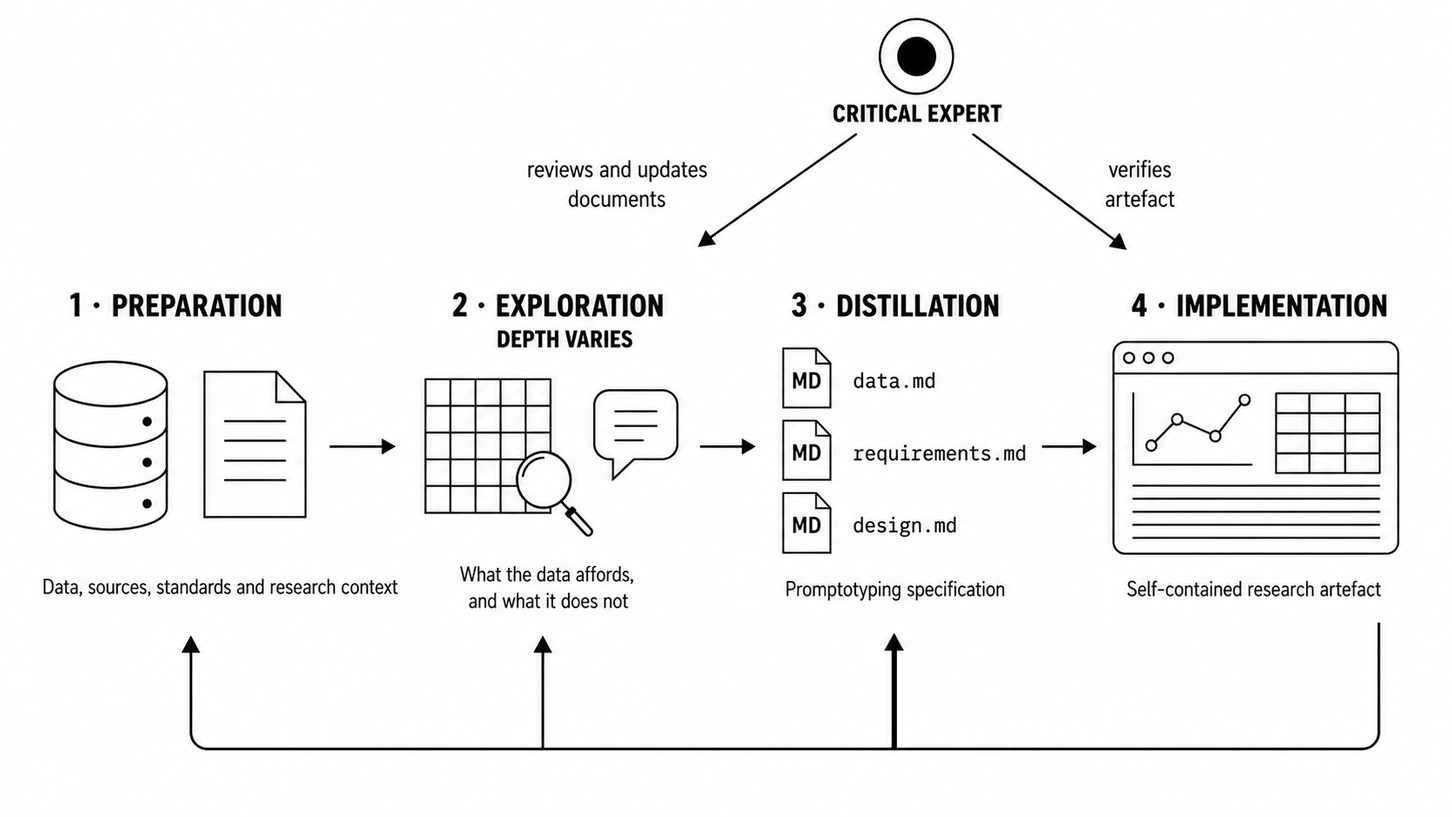
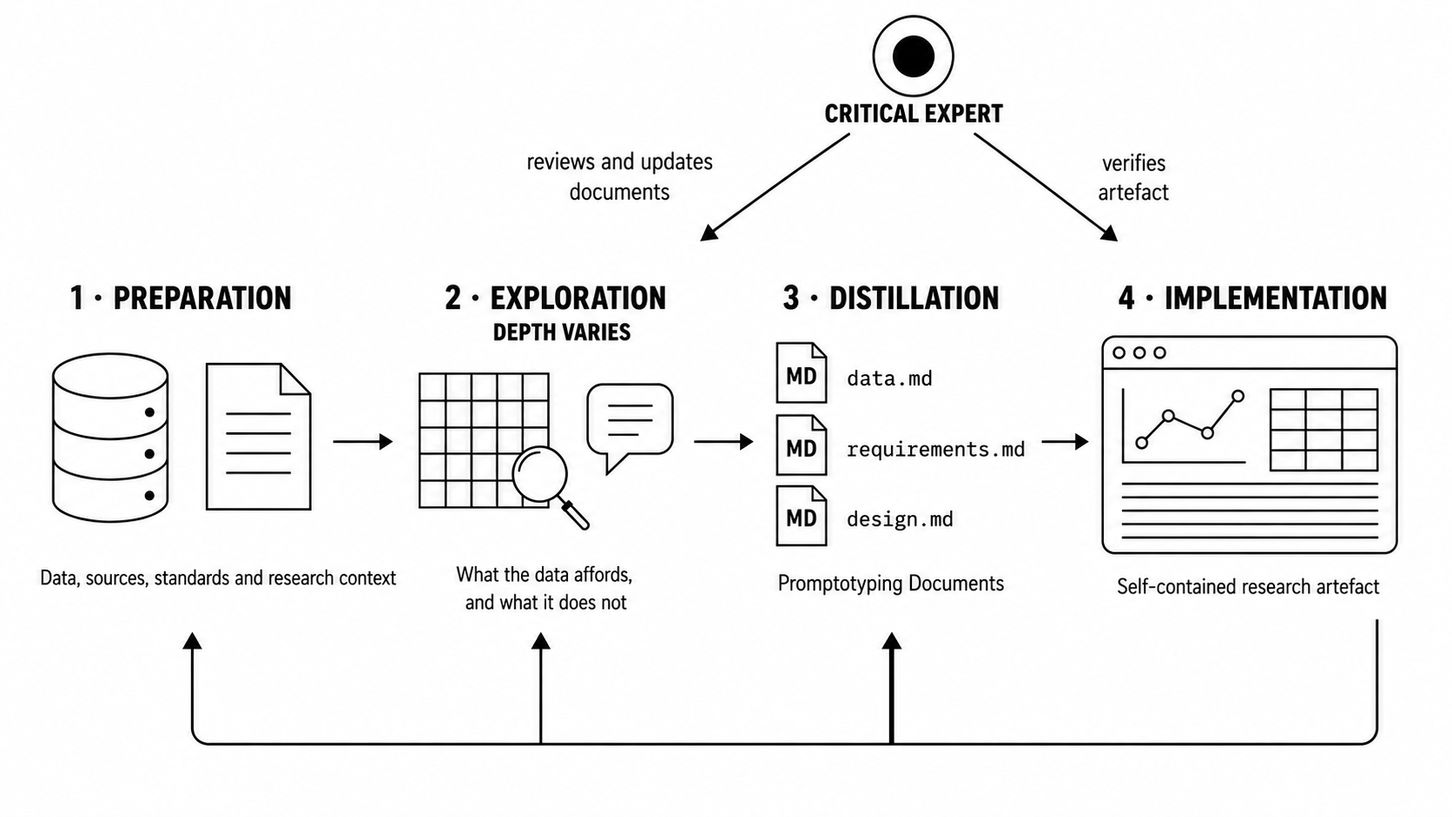
Close the figure work: corrected figure 1, provenance, journal, text fixes
Figure 1 re-rendered with the Promptotyping Documents caption and the depth
note on Exploration. The generation prompts move next to the images in
assets/figures/PROVENANCE.md rather than into the vault, since a prompt
asserts nothing and cannot be grounded. In the paper, Exploration is no longer
declared optional, two duration formulas are anchored to fixed points, and the
translation problem is traced to requirements engineering. The fill-in
examples in the templates now show the documented Harness (LLM) format.

diff --git a/knowledge/paper.md b/knowledge/paper.md
@@ -20,7 +20,7 @@ To ask such questions through a generic tool, the scholar must first reduce the 
 
 Data in the humanities is interpretatively modelled and operationalised, made by people for people, and no generative system replaces this foundation. The method presented here presupposes it, because well-modelled data is precisely what its context layer curates (Section 2.2).
 
-Behind the capacity problem lies a translation problem of another kind, between domain scholars and programmers, to which the field has given several answers. Edmond (2005) described the professional intermediary who mediates between scholarly requirements and technical implementation. Siemens (2009) analysed the team structures that digital humanities projects build to hold both competences together. Kemman (2021) reconstructed digital-history collaborations as trading zones, taking from Galison the concept of an arena in which two communities with different practices coordinate a joint enterprise locally without agreeing globally, and identified the brokers who translate between them. The Research Software Engineering movement has institutionalised the intermediary as a recognised profession (Baxter et al. 2012; Cohen et al. 2021). Each of these answers installs a human translator, and each ties that translator to an institution or a project budget able to pay for the role. Where the role is institutionalised, the capacity it provides falls short of demand. Surveying research software practice across 1,149 respondents, Carver et al. (2022) report that the research-software-engineering, financial, and infrastructure support institutions do provide is inadequate to their respondents' needs, and that funding for software development activities is overwhelmingly reported as insufficient. Building a research artefact that matches a model requires development capacity, and that is what individual researchers and small projects do not command. Since that shortfall was measured among researchers with institutional attachment, I infer that the answers reach the long tail beyond them still less reliably.
+Behind the capacity problem lies a translation problem of another kind, between domain scholars and programmers, to which the field has given several answers. Edmond (2005) described the professional intermediary who mediates between scholarly requirements and technical implementation. Siemens (2009) analysed the team structures that digital humanities projects build to hold both competences together. Kemman (2021) reconstructed digital-history collaborations as trading zones, taking from Galison the concept of an arena in which two communities with different practices coordinate a joint enterprise locally without agreeing globally, and identified the brokers who translate between them. The Research Software Engineering movement has institutionalised the intermediary as a recognised profession (Baxter et al. 2012; Cohen et al. 2021). The figure these answers respond to is older than its reception in this field, since requirements engineering has treated the distance between domain experts and developers as a constitutive problem of software specification since the discipline formed. Each of these answers installs a human translator, and each ties that translator to an institution or a project budget able to pay for the role. Where the role is institutionalised, the capacity it provides falls short of demand. Surveying research software practice across 1,149 respondents, Carver et al. (2022) report that the research-software-engineering, financial, and infrastructure support institutions do provide is inadequate to their respondents' needs, and that funding for software development activities is overwhelmingly reported as insufficient. Building a research artefact that matches a model requires development capacity, and that is what individual researchers and small projects do not command. Since that shortfall was measured among researchers with institutional attachment, I infer that the answers reach the long tail beyond them still less reliably.
 
 This paper introduces Promptotyping, an iterative, document-driven context engineering method situated within agentic engineering. With the method, individual researchers and small teams can translate their own structured research data into research artefacts. A research artefact in this sense is what the documents are turned into for a project's research context, software bound to the data of that project and working on its own data, through which those data become explorable, analysable, or editable. Producing one is a research act that previously required structures with dedicated development capacity. This translation runs through the documents, from the data to their description to the artefact, and it is a different operation from the mediation between scholar and programmer that the preceding paragraph describes. The documents carry both, and Section 3.3 sets out how. The same derivation yields the forms that stand beside it in the record, the processing pipeline upstream of an artefact and the description rendered from the source data. Section 4 fixes the form and its limits.
 
@@ -95,7 +95,7 @@ The second dimension is the token economy of the working context. Here the order
 
 Promptotyping resolves this tension with a simple arrangement. The LLM reads about the data and writes code that reads the data. The semantically rich source data remains the source of truth. What enters the LLM's context is a distilled, token-efficient description of it, produced in the Distillation phase (Section 3.2), in larger projects partly by deterministic scripts that traverse the full corpus and render compact structural descriptions (Section 3.3). And the artefact itself is produced by generated code, parsers, transformations, and rendering logic that process the data deterministically and repeatably. The full data never passes through the context window. What passes through are the data description, the user stories, the design decisions, and the feedback. Where the documents that carry this description sit on the spectrum of explicitness, and why native processability does not lift the token budget, Section 3.3 works out.
 
-This arrangement continues a research programme the humanities have invested in for two decades. The Semantic Web's founding vision was agents operating over semantically described data (Berners-Lee, Hendler, and Lassila 2001); it presupposed the formal inference of its time and did not materialise on that path, and Berners-Lee, in his retrospective on the web, reads the current agentic systems as a movement towards the agent idea that vision named, a movement he describes as partial (Berners-Lee 2025). The arrangement described here rests on no formal inference; explicit semantics enter it as context that the description draws on.[^kg] The explication work, once done, outlasts the format that first carried it, and Section 7 draws the consequence.
+This arrangement continues a research programme the humanities have pursued since the turn of the millennium. The Semantic Web's founding vision was agents operating over semantically described data (Berners-Lee, Hendler, and Lassila 2001); it presupposed the formal inference of its time and did not materialise on that path, and Berners-Lee, in his retrospective on the web, reads the current agentic systems as a movement towards the agent idea that vision named, a movement he describes as partial (Berners-Lee 2025). The arrangement described here rests on no formal inference; explicit semantics enter it as context that the description draws on.[^kg] The explication work, once done, outlasts the format that first carried it, and Section 7 draws the consequence.
 
 ### 2.3 The Translation Problem, and Documents as Conceptual Models
 
@@ -413,7 +413,7 @@ One transfer path deserves naming because it requires no generative tooling at a
 
 ## 7. Conclusion
 
-Promptotyping is a methodological answer to a gap the digital humanities have documented for two decades, between scholars who model research data and the interactive artefacts through which that data could be explored. The method's claims are two. Versioned documents can carry the derivation of a research artefact from research data, concentrating scholarly work where scholarly responsibility lies, in modelling, specifying, and verifying. The same documents stabilise interdisciplinary translation in an inspectable form, towards coding agents and towards human developers alike. The artefacts are prototypes in the strict sense, bounded by the handover point at which Research Software Engineering begins. The epistemic centre of the practice is the modelled data. Where the field's twenty-year investment in standards, ontologies, and semantic modelling has been made, the method renders it productive, through a different mechanism than the Semantic Web envisioned but towards the end it named; where it has not been made, the method moves that work to the front of the process. This paper is the method's canonical definition; the evidence layer is published as a versioned companion with claim-level anchors, and the templates are public. The method was distilled from practice, and testing it further, in the humanities and beyond, remains open.
+Promptotyping is a methodological answer to a gap the digital humanities have documented since Edmond (2005), between scholars who model research data and the interactive artefacts through which that data could be explored. The method's claims are two. Versioned documents can carry the derivation of a research artefact from research data, concentrating scholarly work where scholarly responsibility lies, in modelling, specifying, and verifying. The same documents stabilise interdisciplinary translation in an inspectable form, towards coding agents and towards human developers alike. The artefacts are prototypes in the strict sense, bounded by the handover point at which Research Software Engineering begins. The epistemic centre of the practice is the modelled data. Where the field's sustained investment in standards, ontologies, and semantic modelling has been made, the method renders it productive, through a different mechanism than the Semantic Web envisioned but towards the end it named; where it has not been made, the method moves that work to the front of the process. This paper is the method's canonical definition; the evidence layer is published as a versioned companion with claim-level anchors, and the templates are public. The method was distilled from practice, and testing it further, in the humanities and beyond, remains open.
 
 ## Acknowledgements
 

diff --git a/assets/figures/PROVENANCE.md b/assets/figures/PROVENANCE.md
@@ -1,0 +1,146 @@
+# Figure provenance
+
+The two figures of `knowledge/paper.md` are generated images. This file states
+for each one what it shows, where it belongs in the paper, and the exact prompt
+it was generated from, so that a change of wording can be carried into the
+image without reconstructing the instruction. Section 4.1 of the paper requires
+every artefact to disclose its conditions of production, and the same
+obligation holds for the figures the paper carries.
+
+Both were produced with the ChatGPT image model on 2026-07-26. The style is
+fixed across both, flat monochrome line art on a white plate, near-black
+strokes, bold uppercase headings, monospace reserved for file names, and no
+title inside the image, because the caption in the paper carries it. The dark
+theme of the site inverts the plate in CSS rather than shipping a second file.
+
+One convention runs across the set. A solid filled shape means human
+judgement, and it is the only filled shape in either image.
+
+## figure-1-phases.png
+
+Belongs to Section 3.2, caption Figure 1. It shows the four phases from left to
+right with the material each works on, the Critical Expert above the third and
+fourth phase, and one return path that re-enters at three depths.
+
+```
+Flat vector line art on a pure white #ffffff background, filling the entire
+canvas. Strokes in near-black #1a1a1a, monochrome, no colour, no shadows,
+no title anywhere. Bold uppercase sans-serif for headings, regular sans-serif
+for captions, monospace for file names. 16:9.
+
+Top right area, centred horizontally between columns 3 and 4: a thin open
+circle containing a solid filled black disc, with the bold uppercase label
+"CRITICAL EXPERT" directly beneath it. This disc is the only filled shape in
+the image. Two thin arrows leave the label area and run diagonally downward,
+one to the left ending above column 3, one to the right ending above column 4,
+each with a solid arrowhead. Beside the left arrow, two lines of small regular
+text, "reviews and updates" over "documents". Beside the right arrow, two
+lines, "verifies" over "artefact".
+
+One row of four bold uppercase headings, evenly spaced left to right, each
+with a middle dot after the number:
+  1 · PREPARATION    2 · EXPLORATION    3 · DISTILLATION    4 · IMPLEMENTATION
+Directly under the second heading, in smaller bold uppercase: DEPTH VARIES
+
+One row of icons beneath the headings:
+ 1  a three-tier database cylinder with a small dot on each tier, beside a
+    document sheet with a folded top-right corner and four horizontal lines
+ 2  a square grid of about five by five cells, with a magnifying glass
+    overlapping its lower right corner, and to the right a speech bubble
+    containing three short horizontal lines
+ 3  three separate small square cards stacked vertically, each with a folded
+    top-right corner and the letters MD inside, each with its monospace label
+    set to the right on the same line, top to bottom:
+    data.md, requirements.md, design.md
+ 4  a browser window frame with three small circles in its title bar,
+    containing a line chart with plotted points on the left, a table grid on
+    the right, and a block of horizontal lines across the lower half
+
+Between the icons, three thin horizontal arrows with solid heads pointing
+right, set at the vertical middle of the icons.
+
+One row of centred captions beneath the icons:
+ 1  one line, "Data, sources, standards and research context"
+ 2  two lines, "What the data affords," over "and what it does not"
+ 3  one line, "Promptotyping Documents"
+ 4  one line, "Self-contained research artefact"
+
+Beneath everything, a single return path drawn as one continuous thin line
+with rounded corners. It drops from the right edge below column 4, runs
+horizontally leftward across the full width, and sends three short vertical
+risers upward, each ending in a solid arrowhead just beneath the captions of
+columns 1, 2 and 3. The riser into column 3 is drawn thicker than the other
+two. Above each riser, one small lowercase word at its arrowhead: "sources"
+above the riser into column 1, "assumptions" above the riser into column 2,
+"documents" above the riser into column 3.
+```
+
+Two deviations stand in the delivered image. The three words above the risers
+were not drawn, which is without consequence because the caption names the
+three depths. And the open ring for the agent, which would give the filled
+disc its counterpart and make the division of labour visible, was dropped from
+the instruction while the return path was being fixed; it is the one addition
+worth making on a future run.
+
+## figure-2-document-types.png
+
+Belongs to Section 3.3, caption Figure 2. It shows the three document types
+side by side, each headed by the question it answers and listing the files
+that carry it.
+
+```
+Flat vector line art on a pure white #ffffff background, filling the entire
+canvas. Strokes in near-black #1a1a1a, monochrome, no colour, no shadows,
+no title. 4:3.
+
+One thin outer rectangle divided into three equal columns by two thin vertical
+rules. NO horizontal rules anywhere. Nothing hangs below the rectangle.
+
+Each column carries four elements, stacked with generous spacing:
+ a bold uppercase heading, centred
+ one italic line in sentence case, centred
+ an icon, centred, occupying no more than one third of the column height
+ a monospace list, left-aligned, ONE ITEM PER LINE, with NO slashes, commas or
+ separators of any kind
+
+COLUMN 1
+ DECLARATIVE DOCUMENTS
+ What is the case
+ icon: a document sheet with a folded top-right corner bearing horizontal text
+ lines, with a magnifying glass resting over its lower right area
+ data.md
+ requirements.md
+ design.md
+ verification.md
+ editorial guidelines
+ mapping rules
+
+COLUMN 2
+ PROCESS DOCUMENTS
+ How the work went, and why
+ icon: a document sheet with a folded top-right corner bearing a clock face
+ above a small graph of three connected dots
+ journal.md
+ learnings.md
+ decisions.md
+
+COLUMN 3
+ ACTION DOCUMENTS
+ How to act
+ icon: a document sheet with a folded top-right corner bearing a gear above a
+ checklist of three ticked boxes, each box followed by a short horizontal rule
+ CLAUDE.md
+ AGENTS.md
+ testing strategy
+ agent roles
+
+All three document sheets are drawn at the same size and stroke weight, and
+all three italic lines are in sentence case.
+```
+
+An earlier version of this figure carried a fourth row per column giving the
+diagnostic use, which type to revise when a given kind of error appears in the
+output. It was dropped by operator decision, and the caption in the paper now
+points to the text for it. Restoring it is an addition without redesign, one
+line per column reading `FACTUALLY WRONG → revise`,
+`DECISION LOGIC UNCLEAR → consult` and `FORMALLY WRONG → adjust`.

diff --git a/knowledge/journal.md b/knowledge/journal.md
@@ -921,3 +921,27 @@ Fünf Durchgänge zu je drei Agenten mit disjunktem Dateibesitz, dazwischen Oper
 **Vault-Nachzug, gewachsen.** Konvention und Praxis sind repo-first englisch, dazu trägt die Konvention jetzt den Definitionsvorspann und die korrigierte Typologie. Zusammen mit dem Pflichtkern nach A2 und der Aufnahme der Technology-Vorlage nach B3 ist das eine Vault-Sitzung.
 
 **Offen.** Die sieben Fall-Tiefenseiten. Die neun Glossarbegriffe ohne Fundstelle ausserhalb des Glossars. `_content/glossar.md` ist ein generiertes Dokument ohne Generator im Repo, was die eigene Regel verletzt, dass generierte Dokumente von Skripten gerendert und nicht von Hand gepflegt werden. Die Doppelung der Subpath-Auflösung zwischen `404.html` und `resolveTemplateUrl`, die aus dem Stub folgt und sich beseitigen liesse, wenn der Stub den rohen Pfad weiterreicht. Der Glossareintrag zu den User Stories nennt acht Prüfkriterien und zählt sieben.
+
+## 2026-07-26, sechste Runde — Die Abbildungen des Papers, und was ihr Zeichnen am Text aufgedeckt hat
+
+Diese Runde begann als Bildarbeit und endete als Textarbeit. Der Ertrag im Paper ist grösser als der auf dem Papier, weil eine Abbildung eine Unterscheidung erzwingt, die Prosa offen lassen kann.
+
+**Fünf unscharfe Stellen sind beim Zeichnen aufgefallen.** Die Unterscheidung zwischen kuratierten und generierten Dokumenten stand als Eigenschaft des deklarativen Typs; sie läuft unabhängig von allen drei Typen und ist eine Eigenschaft der Provenienz, entschieden durch die Frage, ob der nächste Lauf eines benannten Kommandos die Datei überschreibt. Die Beschreibung einer Projektpipeline gehört zu den deklarativen Dokumenten und nicht zu den Prozessdokumenten. Der Adressat wechselt mit dem Dokumenttyp, während die doppelte Lesbarkeit über den ganzen Satz konstant bleibt. In 6.2 lagen Rangordnung und Prüfebene ineinander. Und der Rang der maschinellen Prüfinstanz war gesetzt statt begründet.
+
+**Aus dem adversarial machine review wurde ein LLM Review.** Der Operator hat die martialische Formulierung beanstandet und den Anschluss an LLM-as-a-Judge vorgeschlagen. Beides ist eingelöst, mit Zheng et al. 2023 im Verzeichnis, und die dort dokumentierten Verzerrungen tragen jetzt die Begründung dafür, warum die Instanz unter der menschlichen Verifikation rangiert. Mein Zwischenvorschlag `machine review` war unbrauchbar, weil die unterste Prüfebene ebenfalls eine Maschine ist. Im Record sind es ausschliesslich LLMs, also heisst es so.
+
+**Die dritte Abbildung ist eine Tabelle geworden.** Drei nach Rang geordnete Posten sind kein Diagramm; ein Leser hält sie in Prosa. Die Tabelle in 6.2 führt fünf Zeilen über vier Spalten, Ebene, Begriff, Entscheidungsinstanz und Autonomiezone, und sie deckte beim Bau auf, dass die Abbildung die Erfüllung der Anforderungen als Prüfebene ganz unterschlagen hatte. Die Projektübersicht in 5.2 trägt seither eine Beschriftung als Table 1.
+
+**Exploration ist nicht optional.** Der Operator hat das Argument geliefert: entweder der Fachwissenschaftler exploriert selbst, oder wer für ihn baut, muss es tun. Was variiert, ist die Tiefe, und wo die Daten vertraut sind, ist die Arbeit kurz, weil das Verständnis schon vorliegt. Eine Phase als optional zu deklarieren lädt dort zum Auslassen ein, wo sie am nötigsten ist.
+
+**Das Bildmodell hat eine Belastungsgrenze, und Textzerfall ist ihr Signal.** Die Phasenabbildung kippte zweimal, als die untere Zone einen Knoten mit vier gerichteten Verbindungen bekam. Die Rücklaufbögen hängten sich an das durchlaufende Band, so dass Korrekturen aus dem Journal in die Phasen zu fliessen schienen, und im nächsten Durchlauf lief der Rücklauf invertiert in Vorwärtsrichtung. Beide Male zerfielen gleichzeitig sieben Beschriftungen. Die Lehre ist, pro Durchlauf eine Sache zu ändern, und die brauchbare Fassung war die einfachste.
+
+**Prompts sind nicht komprimierbar, Bedeutungserklärungen schon.** Etwa die Hälfte meiner Prompts war Ballast, weil ich dem Modell erklärt habe, was eine Form bedeutet. Ein Bildmodell schliesst daraus nichts. Was seinen Platz verdient, ist der wörtliche Text, die Geometrie und die Verbote, und jedes Verbot steht für einen konkreten Fehldurchlauf.
+
+**Farbe bleibt draussen.** Nach der eigenen Regel bedeutet Farbe genau eine Sache, die epistemische Funktion eines Artefakts, und sie erscheint auf der Artefakt-Seite und an der Kartenkante, sonst nirgends. Keine der Abbildungen handelt davon. Meine frühere Zusage, die fünf Interface-Kategorien für 4.2 farbig zu tabellieren, ziehe ich damit zurück; sie wäre der dritte Farbort gewesen.
+
+**Ablage.** Die Bilder liegen unter `assets/figures/` und werden aus `paper.md` repo-relativ referenziert, was trägt, weil `404.html` jede Subpath-Adresse auf den Site-Root zurückwirft. In der GitHub-Vorschau bleiben sie deshalb leer, der bewusste Preis für Portabilität ohne feste Domain. Der Dunkelmodus dreht die weisse Platte per CSS-Filter um, statt eine zweite Datei zu führen. Die Erzeugungsvorschriften stehen in `assets/figures/PROVENANCE.md`, nicht im Vault; ein Prompt behauptet nichts über die Welt und lässt sich in nichts verankern, also wäre die Quellen-Distillat-Claim-Kette ein Kategorienfehler gewesen.
+
+**Kleinkram nachgezogen.** Vierzehn Befüll-Beispiele in den Vorlagen führten `generated-with: [Werkzeug, falls relevant]` und zeigen jetzt das dokumentierte Klammerformat. Zwei Zeitformeln im Paper sind an einen festen Punkt gebunden statt an eine mitlaufende Dauer. Der Herkunftssatz zum Übersetzungsproblem steht in Abschnitt 1 und weist es dem Requirements Engineering zu.
+
+**Offen.** Der Herkunftssatz zum Requirements Engineering trägt keine Fundstelle und braucht eine. In Abbildung 1 fehlen die drei Wörter über den Rücklaufaufstiegen und die offene Ringmarke für den Agenten, die der gefüllten Scheibe ihren Gegenpart gäbe; ohne sie ruht deren Bedeutung allein auf der Bildunterschrift. Abbildung 2 hat ihre Diagnosezeile auf Operator-Entscheidung verloren, was die Begründung schwächt, mit der 3.3 die Typologie einführt.

diff --git a/_content/promptotyping-document/domain-knowledge.md b/_content/promptotyping-document/domain-knowledge.md
@@ -119,7 +119,7 @@ template:
 language: [de | en]
 version: [Repo-Schema-Version]
 authors: [Autor 1, Autor 2]
-generated-with: [Werkzeug, falls relevant]
+generated-with: [Harness (LLM), falls relevant]
 topics: ["[[TEI]]", "[[Editorial Guidelines]]"]
 knowledge-sources:
   standards:
@@ -208,7 +208,7 @@ template:
 language: [de | en]
 version: [Repo-Schema-Version]
 authors: [Autor 1, Autor 2]
-generated-with: [Werkzeug, falls relevant]
+generated-with: [Harness (LLM), falls relevant]
 topics: ["[[Mobility Studies]]", "[[Explainable AI]]"]
 related: [project, data, specification]
 ---

diff --git a/_content/promptotyping-document/architecture.md b/_content/promptotyping-document/architecture.md
@@ -101,7 +101,7 @@ version: [Repo-Schema-Version]
 created: [YYYY-MM-DD]
 updated: [YYYY-MM-DD]
 authors: [Autor 1, Autor 2]
-generated-with: [Werkzeug, falls relevant]
+generated-with: [Harness (LLM), falls relevant]
 method:
   name: Promptotyping
   url: https://lisa.gerda-henkel-stiftung.de/digitale_geschichte_pollin

diff --git a/_content/promptotyping-document/data.md b/_content/promptotyping-document/data.md
@@ -127,7 +127,7 @@ version: [Repo-Schema-Version]
 created: [YYYY-MM-DD]
 updated: [YYYY-MM-DD]
 authors: [Autor 1, Autor 2]
-generated-with: [Werkzeug, falls relevant]
+generated-with: [Harness (LLM), falls relevant]
 method:
   name: Promptotyping
   url: https://lisa.gerda-henkel-stiftung.de/digitale_geschichte_pollin

diff --git a/_content/promptotyping-document/plan.md b/_content/promptotyping-document/plan.md
@@ -108,7 +108,7 @@ version: [Repo-Schema-Version]
 created: [YYYY-MM-DD]
 updated: [YYYY-MM-DD]
 authors: [Autor 1, Autor 2]
-generated-with: [Werkzeug, falls relevant]
+generated-with: [Harness (LLM), falls relevant]
 method:
   name: Promptotyping
   url: https://lisa.gerda-henkel-stiftung.de/digitale_geschichte_pollin

diff --git a/_content/promptotyping-document/report.md b/_content/promptotyping-document/report.md
@@ -107,7 +107,7 @@ version: [Repo-Schema-Version]
 created: [YYYY-MM-DD]
 updated: [YYYY-MM-DD]
 authors: [Autor 1, Autor 2]
-generated-with: [Werkzeug, falls relevant]
+generated-with: [Harness (LLM), falls relevant]
 method:
   name: Promptotyping
   url: https://lisa.gerda-henkel-stiftung.de/digitale_geschichte_pollin

diff --git a/_content/promptotyping-document/design.md b/_content/promptotyping-document/design.md
@@ -89,7 +89,7 @@ version: [Repo-Schema-Version]
 created: [YYYY-MM-DD]
 updated: [YYYY-MM-DD]
 authors: [Autor 1, Autor 2]
-generated-with: [Werkzeug, falls relevant]
+generated-with: [Harness (LLM), falls relevant]
 method:
   name: Promptotyping
   url: https://lisa.gerda-henkel-stiftung.de/digitale_geschichte_pollin

diff --git a/_content/promptotyping-document/index.md b/_content/promptotyping-document/index.md
@@ -90,7 +90,7 @@ version: [Repo-Schema-Version]
 created: [YYYY-MM-DD]
 updated: [YYYY-MM-DD]
 authors: [Autor 1, Autor 2]
-generated-with: [Werkzeug, falls relevant]
+generated-with: [Harness (LLM), falls relevant]
 method:
   name: Promptotyping
   url: https://lisa.gerda-henkel-stiftung.de/digitale_geschichte_pollin

diff --git a/_content/promptotyping-document/journal.md b/_content/promptotyping-document/journal.md
@@ -84,7 +84,7 @@ version: [Repo-Schema-Version]
 created: [YYYY-MM-DD]
 updated: [YYYY-MM-DD]
 authors: [Autor 1, Autor 2]
-generated-with: [Werkzeug, falls relevant]
+generated-with: [Harness (LLM), falls relevant]
 method:
   name: Promptotyping
   url: https://lisa.gerda-henkel-stiftung.de/digitale_geschichte_pollin

diff --git a/_content/promptotyping-document/specification.md b/_content/promptotyping-document/specification.md
@@ -98,7 +98,7 @@ version: [Repo-Schema-Version]
 created: [YYYY-MM-DD]
 updated: [YYYY-MM-DD]
 authors: [Autor 1, Autor 2]
-generated-with: [Werkzeug, falls relevant]
+generated-with: [Harness (LLM), falls relevant]
 method:
   name: Promptotyping
   url: https://lisa.gerda-henkel-stiftung.de/digitale_geschichte_pollin
